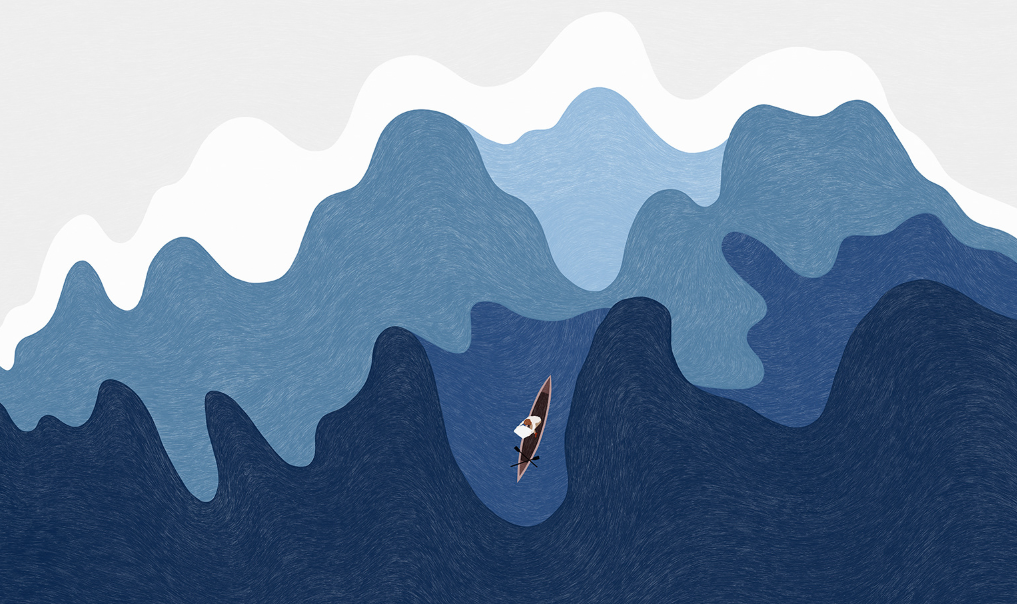
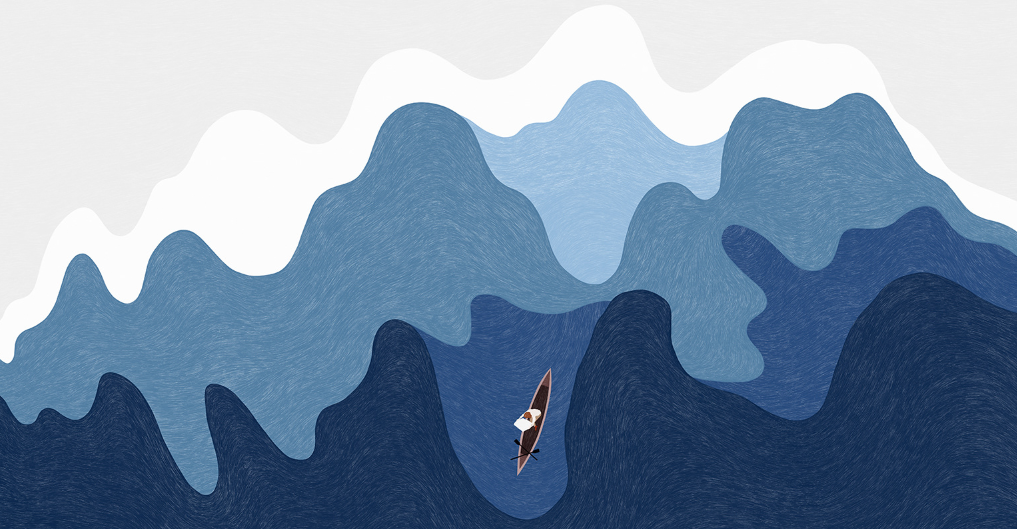
ca

diff --git a/index.html b/index.html
@@ -362,15 +362,15 @@
       <div class="container">
 
         <div class="section-title" data-aos="zoom-out">
-          <h2>Portfolio</h2>
-          <p>What we've done</p>
+          <h2>Our items</h2>
+          <p>What we've choose</p>
         </div>
 
         <ul id="portfolio-flters" class="d-flex justify-content-end" data-aos="fade-up">
           <li data-filter="*" class="filter-active">All</li>
-          <li data-filter=".filter-app">App</li>
-          <li data-filter=".filter-card">Card</li>
-          <li data-filter=".filter-web">Web</li>
+          <li data-filter=".filter-app">Artefacts</li>
+          <li data-filter=".filter-card">Multimedia</li>
+          <li data-filter=".filter-web">Text</li>
         </ul>
 
         <div class="row portfolio-container" data-aos="fade-up">
@@ -378,9 +378,9 @@
           <div class="col-lg-4 col-md-6 portfolio-item filter-app">
             <div class="portfolio-img"><img src="assets/img/portfolio/portfolio-1.jpg" class="img-fluid" alt=""></div>
             <div class="portfolio-info">
-              <h4>App 1</h4>
-              <p>App</p>
-              <a href="assets/img/portfolio/portfolio-1.jpg" data-gallery="portfolioGallery" class="portfolio-lightbox preview-link" title="App 1"><i class="bx bx-plus"></i></a>
+              <h4>Board Game</h4>
+              <p>Artefact description</p>
+              <a href="assets/img/portfolio/board game1.jpg" data-gallery="portfolioGallery" class="portfolio-lightbox preview-link" title="App 1"><i class="bx bx-plus"></i></a>
               <a href="portfolio-details.html" class="details-link" title="More Details"><i class="bx bx-link"></i></a>
             </div>
           </div>
@@ -388,8 +388,8 @@
           <div class="col-lg-4 col-md-6 portfolio-item filter-web">
             <div class="portfolio-img"><img src="assets/img/portfolio/portfolio-2.jpg" class="img-fluid" alt=""></div>
             <div class="portfolio-info">
-              <h4>Web 3</h4>
-              <p>Web</p>
+              <h4>Book</h4>
+              <p>Text 1 description</p>
               <a href="assets/img/portfolio/portfolio-2.jpg" data-gallery="portfolioGallery" class="portfolio-lightbox preview-link" title="Web 3"><i class="bx bx-plus"></i></a>
               <a href="portfolio-details.html" class="details-link" title="More Details"><i class="bx bx-link"></i></a>
             </div>
@@ -398,9 +398,9 @@
           <div class="col-lg-4 col-md-6 portfolio-item filter-app">
             <div class="portfolio-img"><img src="assets/img/portfolio/portfolio-3.jpg" class="img-fluid" alt=""></div>
             <div class="portfolio-info">
-              <h4>App 2</h4>
-              <p>App</p>
-              <a href="assets/img/portfolio/portfolio-3.jpg" data-gallery="portfolioGallery" class="portfolio-lightbox preview-link" title="App 2"><i class="bx bx-plus"></i></a>
+              <h4>Raft</h4>
+              <p>Artefact 2 description</p>
+              <a href="assets/img/portfolio/raft2.jpg" data-gallery="portfolioGallery" class="portfolio-lightbox preview-link" title="App 2"><i class="bx bx-plus"></i></a>
               <a href="portfolio-details.html" class="details-link" title="More Details"><i class="bx bx-link"></i></a>
             </div>
           </div>
@@ -408,9 +408,9 @@
           <div class="col-lg-4 col-md-6 portfolio-item filter-card">
             <div class="portfolio-img"><img src="assets/img/portfolio/portfolio-4.jpg" class="img-fluid" alt=""></div>
             <div class="portfolio-info">
-              <h4>Card 2</h4>
-              <p>Card</p>
-              <a href="assets/img/portfolio/portfolio-4.jpg" data-gallery="portfolioGallery" class="portfolio-lightbox preview-link" title="Card 2"><i class="bx bx-plus"></i></a>
+              <h4>Documentary</h4>
+              <p>Multimedia 1 description</p>
+              <a href="assets/img/portfolio/doc.jpg" data-gallery="portfolioGallery" class="portfolio-lightbox preview-link" title="Card 2"><i class="bx bx-plus"></i></a>
               <a href="portfolio-details.html" class="details-link" title="More Details"><i class="bx bx-link"></i></a>
             </div>
           </div>
@@ -418,9 +418,9 @@
           <div class="col-lg-4 col-md-6 portfolio-item filter-web">
             <div class="portfolio-img"><img src="assets/img/portfolio/portfolio-5.jpg" class="img-fluid" alt=""></div>
             <div class="portfolio-info">
-              <h4>Web 2</h4>
-              <p>Web</p>
-              <a href="assets/img/portfolio/portfolio-5.jpg" data-gallery="portfolioGallery" class="portfolio-lightbox preview-link" title="Web 2"><i class="bx bx-plus"></i></a>
+              <h4>Manifest</h4>
+              <p>Text 2 description</p>
+              <a href="assets/img/portfolio/manifesto.jpg" data-gallery="portfolioGallery" class="portfolio-lightbox preview-link" title="Web 2"><i class="bx bx-plus"></i></a>
               <a href="portfolio-details.html" class="details-link" title="More Details"><i class="bx bx-link"></i></a>
             </div>
           </div>
@@ -428,18 +428,38 @@
           <div class="col-lg-4 col-md-6 portfolio-item filter-app">
             <div class="portfolio-img"><img src="assets/img/portfolio/portfolio-6.jpg" class="img-fluid" alt=""></div>
             <div class="portfolio-info">
-              <h4>App 3</h4>
-              <p>App</p>
-              <a href="assets/img/portfolio/portfolio-6.jpg" data-gallery="portfolioGallery" class="portfolio-lightbox preview-link" title="App 3"><i class="bx bx-plus"></i></a>
+              <h4>Stamp</h4>
+              <p>Artefact 3 description</p>
+              <a href="assets/img/portfolio/stamp3.jpg" data-gallery="portfolioGallery" class="portfolio-lightbox preview-link" title="App 3"><i class="bx bx-plus"></i></a>
               <a href="portfolio-details.html" class="details-link" title="More Details"><i class="bx bx-link"></i></a>
             </div>
           </div>
 
+          <div class="col-lg-4 col-md-6 portfolio-item filter-app">
+            <div class="portfolio-img"><img src="assets/img/portfolio/portfolio-6.jpg" class="img-fluid" alt=""></div>
+            <div class="portfolio-info">
+              <h4>Photo</h4>
+              <p>Artefact 4 description</p>
+              <a href="assets/img/portfolio/photo4.jpg" data-gallery="portfolioGallery" class="portfolio-lightbox preview-link" title="App 3"><i class="bx bx-plus"></i></a>
+              <a href="portfolio-details.html" class="details-link" title="More Details"><i class="bx bx-link"></i></a>
+            </div>
+          </div>
+
+          <div class="col-lg-4 col-md-6 portfolio-item filter-app">
+            <div class="portfolio-img"><img src="assets/img/portfolio/portfolio-6.jpg" class="img-fluid" alt=""></div>
+            <div class="portfolio-info">
+              <h4>Map</h4>
+              <p>Artefact 5 description</p>
+              <a href="assets/img/portfolio/map5.jpg" data-gallery="portfolioGallery" class="portfolio-lightbox preview-link" title="App 3"><i class="bx bx-plus"></i></a>
+              <a href="portfolio-details.html" class="details-link" title="More Details"><i class="bx bx-link"></i></a>
+            </div>
+          </div>
+		  
           <div class="col-lg-4 col-md-6 portfolio-item filter-card">
             <div class="portfolio-img"><img src="assets/img/portfolio/portfolio-7.jpg" class="img-fluid" alt=""></div>
             <div class="portfolio-info">
-              <h4>Card 1</h4>
-              <p>Card</p>
+              <h4>Recording speech</h4>
+              <p>Multimedia 2 description</p>
               <a href="assets/img/portfolio/portfolio-7.jpg" data-gallery="portfolioGallery" class="portfolio-lightbox preview-link" title="Card 1"><i class="bx bx-plus"></i></a>
               <a href="portfolio-details.html" class="details-link" title="More Details"><i class="bx bx-link"></i></a>
             </div>
@@ -448,19 +468,9 @@
           <div class="col-lg-4 col-md-6 portfolio-item filter-card">
             <div class="portfolio-img"><img src="assets/img/portfolio/portfolio-8.jpg" class="img-fluid" alt=""></div>
             <div class="portfolio-info">
-              <h4>Card 3</h4>
-              <p>Card</p>
-              <a href="assets/img/portfolio/portfolio-8.jpg" data-gallery="portfolioGallery" class="portfolio-lightbox preview-link" title="Card 3"><i class="bx bx-plus"></i></a>
-              <a href="portfolio-details.html" class="details-link" title="More Details"><i class="bx bx-link"></i></a>
-            </div>
-          </div>
-
-          <div class="col-lg-4 col-md-6 portfolio-item filter-web">
-            <div class="portfolio-img"><img src="assets/img/portfolio/portfolio-9.jpg" class="img-fluid" alt=""></div>
-            <div class="portfolio-info">
-              <h4>Web 3</h4>
-              <p>Web</p>
-              <a href="assets/img/portfolio/portfolio-9.jpg" data-gallery="portfolioGallery" class="portfolio-lightbox preview-link" title="Web 3"><i class="bx bx-plus"></i></a>
+              <h4>Song</h4>
+              <p>Multimedia 3 description</p>
+              <a href="assets/img/portfolio/song.jpg" data-gallery="portfolioGallery" class="portfolio-lightbox preview-link" title="Card 3"><i class="bx bx-plus"></i></a>
               <a href="portfolio-details.html" class="details-link" title="More Details"><i class="bx bx-link"></i></a>
             </div>
           </div>

diff --git a/assets/css/style.css b/assets/css/style.css
@@ -323,7 +323,7 @@ h1, h2, h3, h4, h5, h6 {
 #hero {
   width: 100%;
   height: 100vh;
-  background: url("../img/barchetta.jpg");
+  background: url("../img/sea.png");
   background-size: cover;
   position: relative;
   padding-top: 82px;
